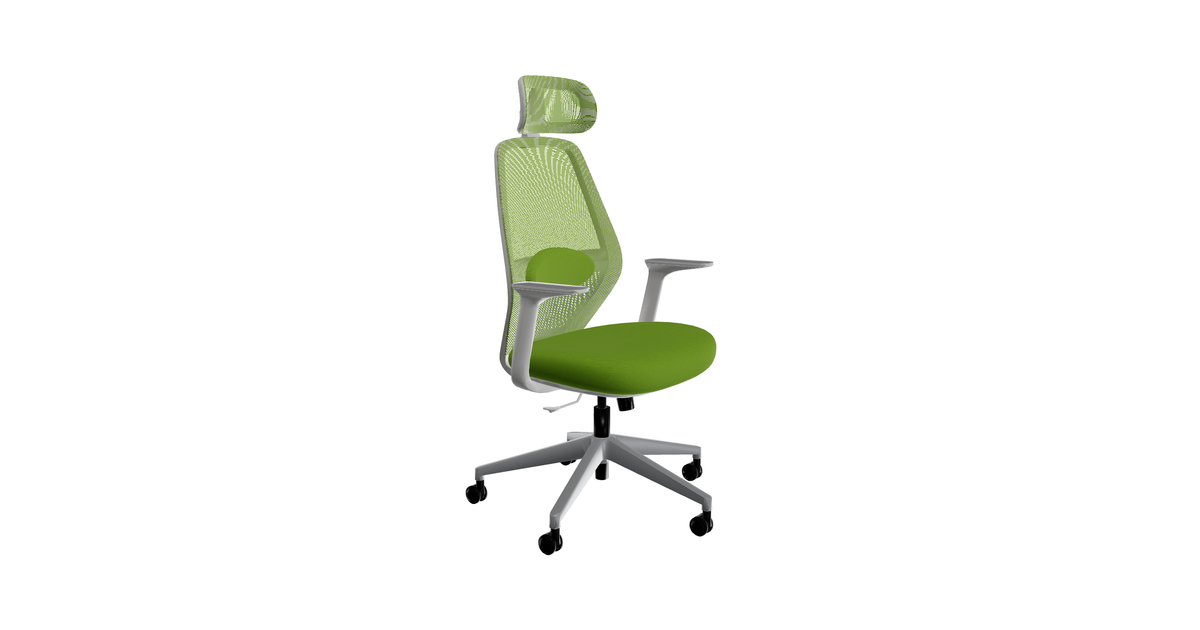
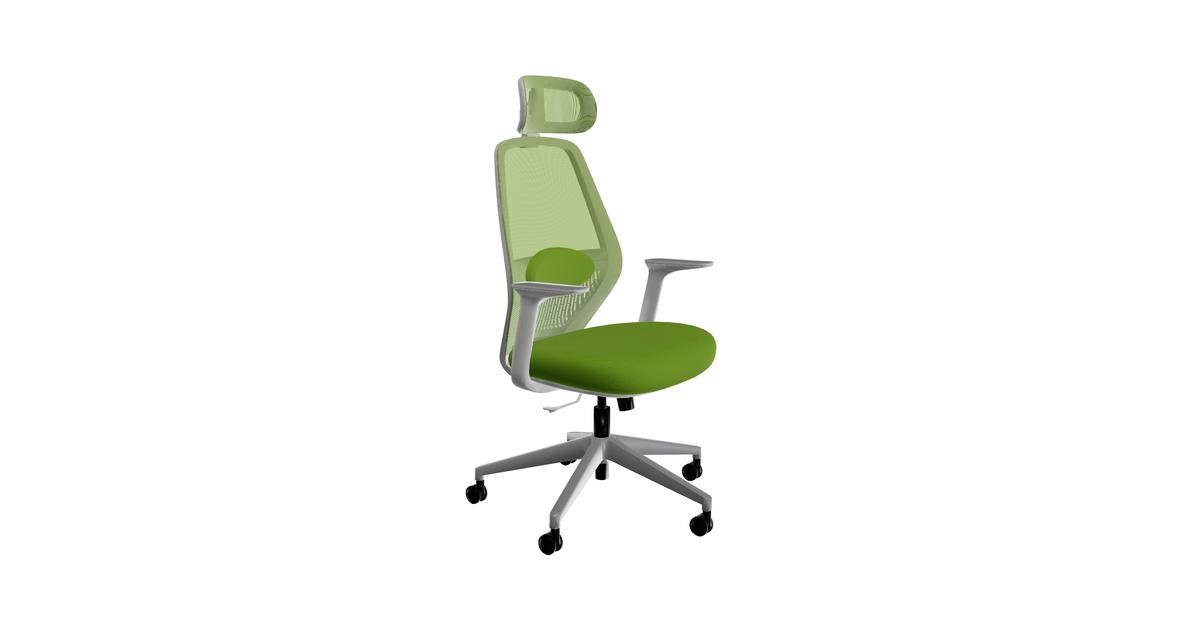
Blend the fine mesh instead of alpha-testing it
At ~2 mm pitch the weave is sub-pixel at normal distance; alpha-test
collapsed it to solid green with mip banding. Blended transparency with
depth write averages it to a semi-transparent panel like real mesh.

Changed region(s): [[0.4008, 0.1206, 0.4933, 0.3921], [0.4008, 0.4222, 0.5242, 0.5429]]

diff --git a/components/viewer/Model.tsx b/components/viewer/Model.tsx
@@ -87,14 +87,20 @@ export function Model({ url, manifest }: ModelProps) {
           if (role === "mesh" && !merged.solid) {
             mat.map = meshShadeMap();
             mat.alphaMap = meshAlphaMap();
-            mat.alphaTest = 0.5; // cut-out holes, no sorting artefacts
-            mat.transparent = false;
+            // Blended, not alpha-tested: the ~2 mm weave is sub-pixel at normal viewing distance, and
+            // blending averages it to a semi-transparent panel (like real mesh) instead of collapsing
+            // to solid or vanishing at the alpha-test threshold. Near-zero alpha is still discarded and
+            // depth is written so the panel sorts cleanly against the frame and seat.
+            mat.alphaTest = 0.05;
+            mat.transparent = true;
+            mat.depthWrite = true;
             mat.side = DoubleSide;
             projectPatternInWorldSpace(mat, 120);
           } else if (role === "upholstery" || (role === "mesh" && merged.solid)) {
             mat.map = fabricMap();
             mat.alphaMap = null;
             mat.alphaTest = 0;
+            mat.transparent = false;
             // The back panel is a single surface: keep it double-sided so it reads as fabric from behind too.
             mat.side = role === "mesh" ? DoubleSide : FrontSide;
             projectPatternInWorldSpace(mat, 24);
@@ -103,6 +109,7 @@ export function Model({ url, manifest }: ModelProps) {
             mat.map = null;
             mat.alphaMap = null;
             mat.alphaTest = 0;
+            mat.transparent = false;
             mat.side = FrontSide;
           }
         }
